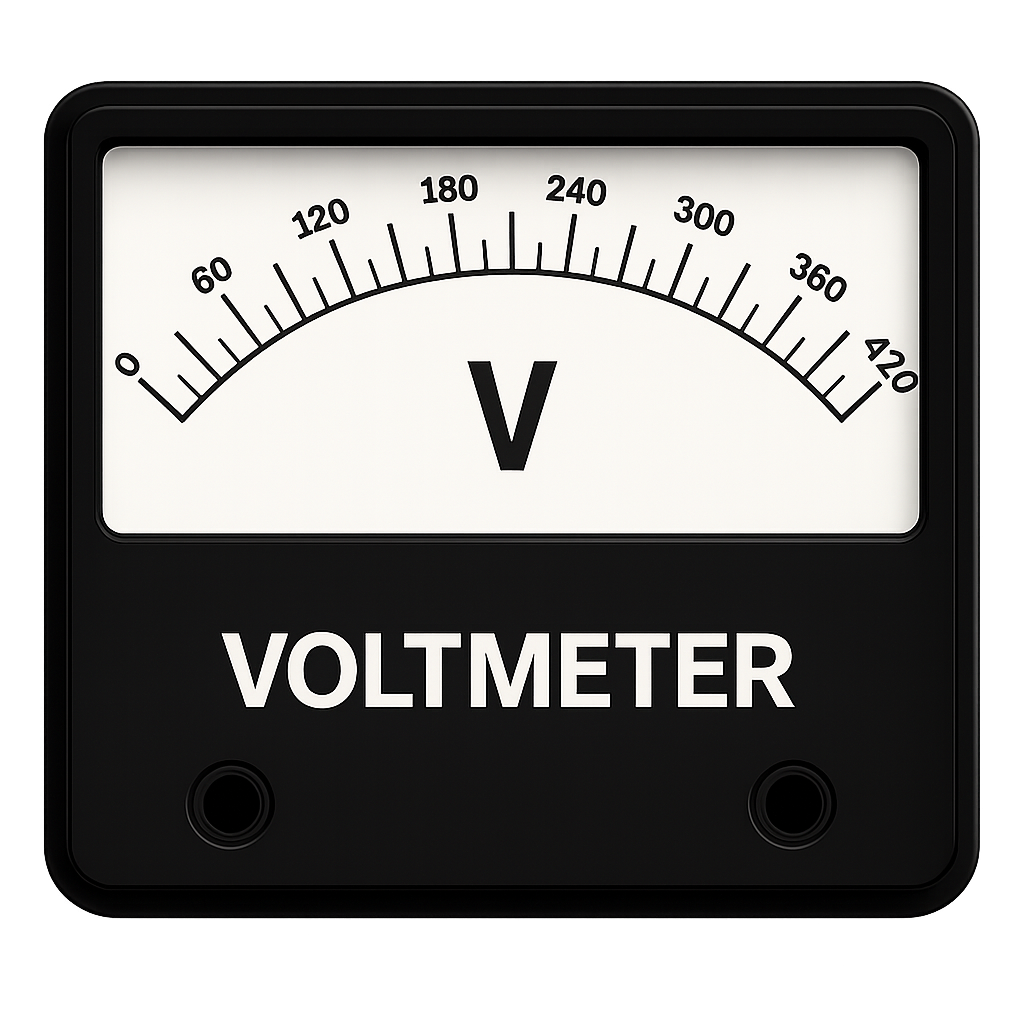
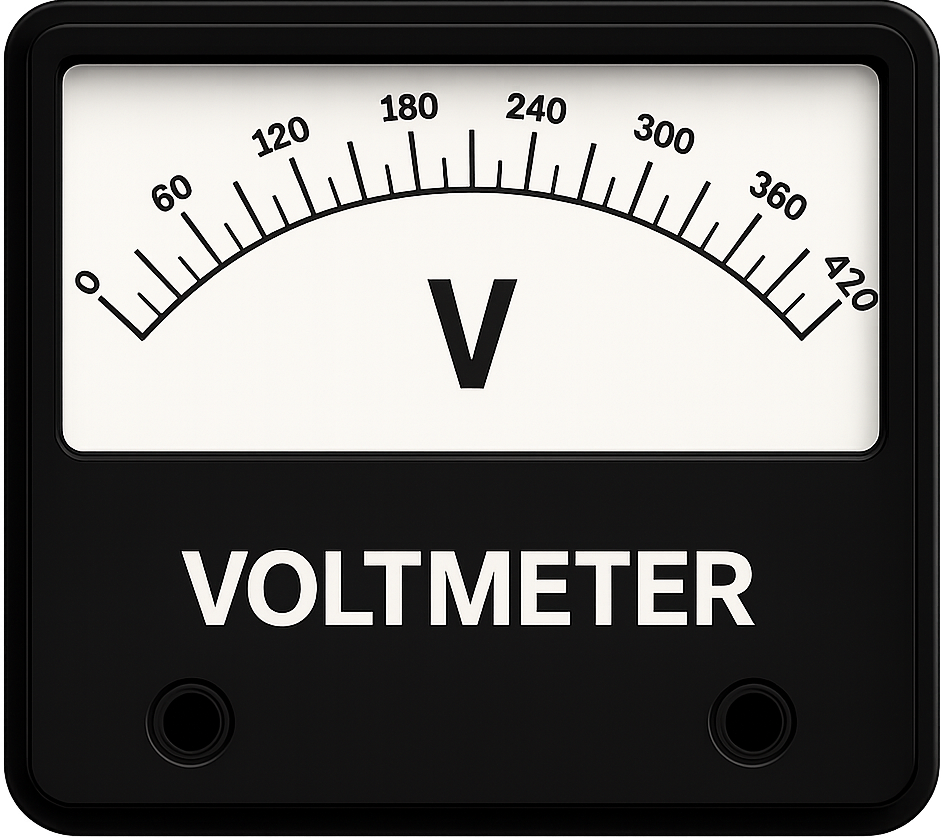
New Changes

diff --git a/styles.css b/styles.css
@@ -217,11 +217,11 @@ h3 {
     display: flex;
     flex-direction: row;
     flex-wrap: nowrap;
-    gap: clamp(8px, 1.5vw, 12px);
+    gap: 15px;
     width: 100%;
     height: 80%;
     align-items: stretch;
-    justify-content: space-around;
+    justify-content: center;
     margin-bottom: clamp(15px, 2.5vw, 20px);
 }
 .rpm-card img {
@@ -249,8 +249,8 @@ h3 {
 }
 #ammter1-label{
     position: absolute;
-    bottom: -44px;        /* distance below meter */
-    left: 120px;
+    bottom: -10px;        /* distance below meter */
+    left: 135px;
     transform: translateX(-50%);
 
     font-size: 12px;
@@ -272,8 +272,8 @@ h3 {
 }
 #voltmeter1-label {
     position: absolute;
-    bottom: -44px;        /* distance below meter */
-    left: 49%;
+    bottom: -42x;        /* distance below meter */
+    left: 54%;
     transform: translateX(-50%);
 
     font-size: 12px;
@@ -283,7 +283,7 @@ h3 {
 #rpm1-label {
     position: absolute;
     bottom: -44px;
-    left: 83%;
+    left: 86%;
     transform: translateX(-50%);
     font-size: 12px;
     white-space: nowrap;
@@ -299,8 +299,7 @@ h3 {
 
 .meter-card img {
     position: relative; 
-    width: 100%; 
-    height: 100%;
+  
     object-fit: contain;
     display: block;
     border-radius: 4px;
@@ -326,6 +325,20 @@ h3 {
     bottom: 0;
     right: 0;
 }
+
+
+.voltmeter-img {
+    width: 360px;      /* adjust size */
+    height: 180px;
+    object-fit: contain;
+}
+
+.ammeter-img {
+    width: 320px;      /* adjust separately */
+    height: 140px;
+    object-fit: contain;
+}
+
 .workspace {
     background: #d7d0c4;
     border: 3px solid #111;

diff --git a/index.html b/index.html
@@ -97,9 +97,12 @@
                         <h3 id="voltmeter1-label">AMMETER</h3>
                          <h3 id="rpm1-label">Digital RPM Indicator</h3>
                         <div class="meter-card">
-                            
-                            <img src="images/voltmeter.png" alt="Voltmeter">
-                             <div class="meter-needle3">
+
+                          <img src="images/voltmeter.png"   class="voltmeter-img" alt="Voltmeter">
+                           
+                          
+                          
+                          <div class="meter-needle3">
                                 <div class="meter-needle3">
                                 <img src="images/needle.png" alt="needle"> 
                                 </div>
@@ -115,7 +118,7 @@
                   
                           <div class="meter-card  ammeter-card">
                              <div class="ammeter-inner">
-                             <img src="images/ammeter.png" alt="Ammeter">
+                             <img src="images/ammeter.png"  class="ammeter-img" alt="Ammeter">
                              <div class="meter-needle1 ammeter-needle">
                              <img src="images/needle.png" alt="needle">
                              </div>

diff --git a/style2.css b/style2.css
@@ -214,24 +214,7 @@
    top: 258px;
    font-weight: bold;
  }
-.point-I{
-  position: absolute;
-  width: 24px;
-  height: 24px;
-  left: 49px;
-  top: 220px;
-  transform: translate(-50%, -50%);
-  font-weight: bold;
-}
-.point-J{
-  position: absolute;
-  width: 24px;
-  height: 24px;
-  left: 160px;
-  top: 220px;
-  transform: translate(-50%, -50%);
-  font-weight: bold;
-}
+
 
 
 .point-C{
@@ -390,16 +373,16 @@
 /* Visible Buttons */
 
 .ammeter-inner .point-L {
-  left: 20%;
-  top: 110%;
+  left: 19%;
+  top: 112%;
   width: 20px;
   height: 20px;
   z-index: 10;
 }
 
 .ammeter-inner .point-M {
-  left: 79%;
-  top:110%;
+  left: 80%;
+  top:112%;
   width: 20px;
   height: 20px;
   z-index: 10;
@@ -408,7 +391,7 @@
 /* Hidden jsPlumb Endpoints */
 
 .ammeter-inner #pointL {
-  left: 18%;
+  left: 12%;
   top: 110%;
   width: 10px;
   height: 10px;
@@ -416,7 +399,7 @@
 }
 
 .ammeter-inner #pointM {
-  left: 87%;
+  left: 90%;
   top: 110%;
   width: 10px;
   height: 10px;
